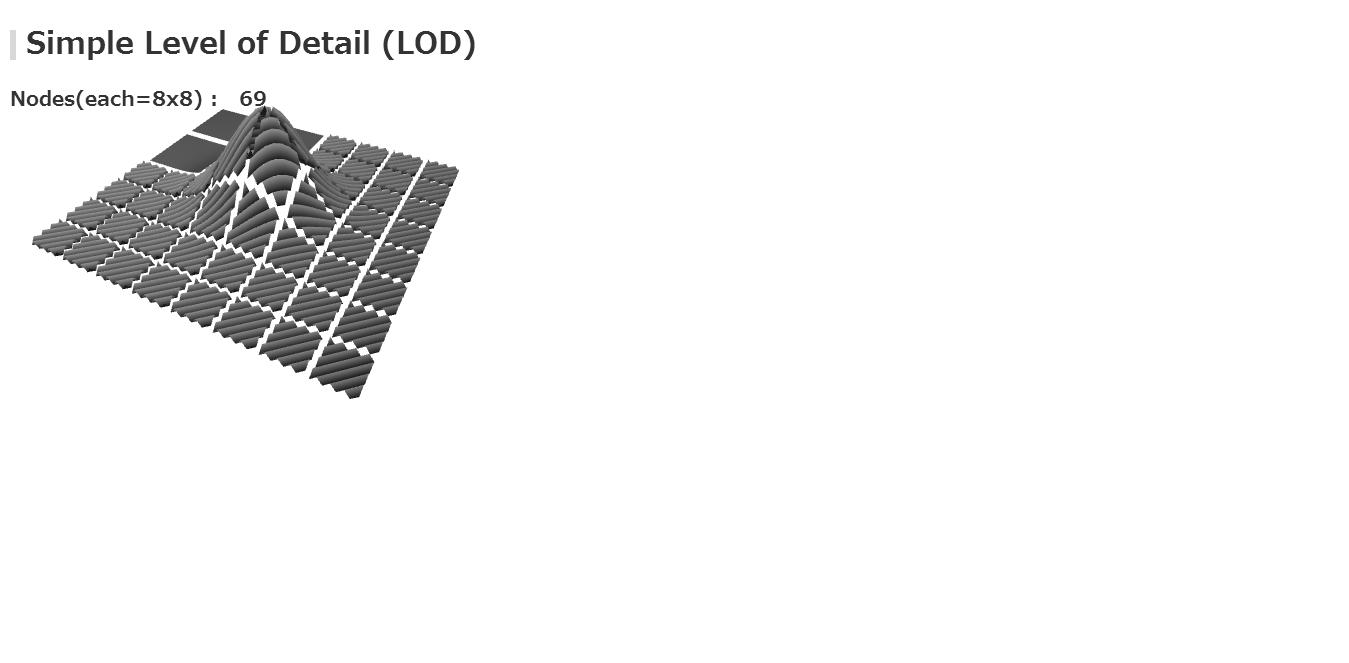
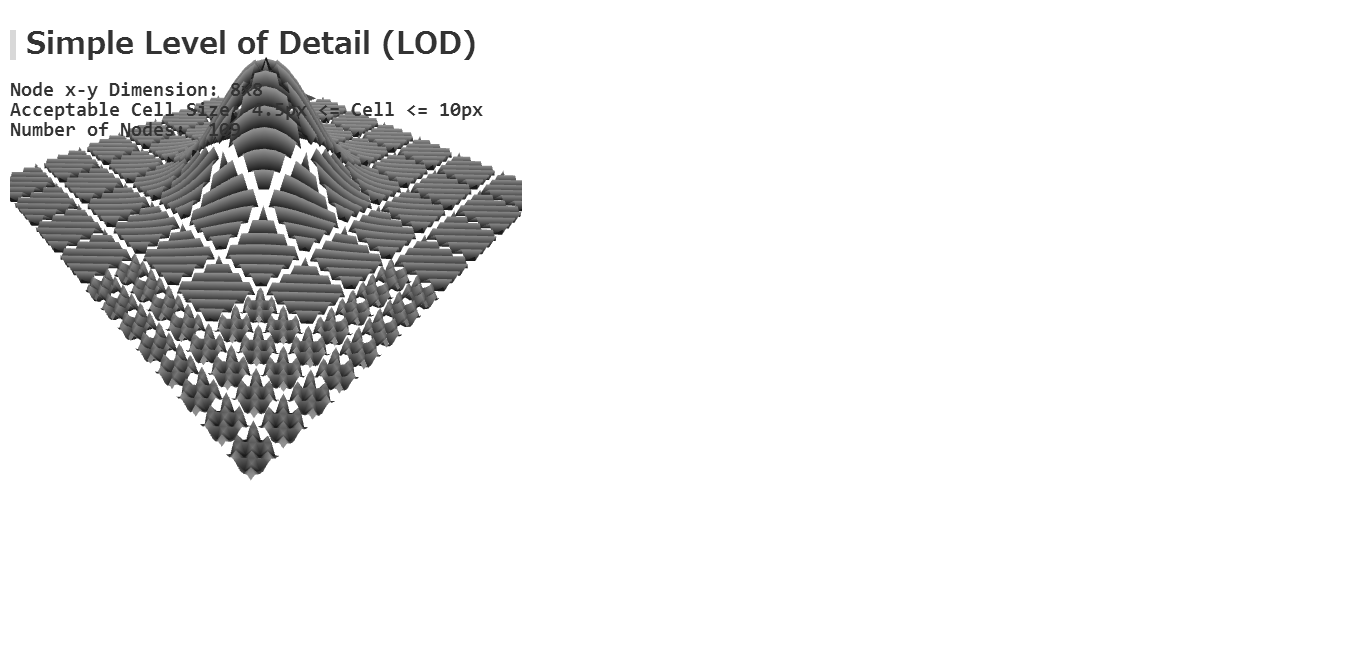
change to display more information of tree

Changed region(s): [[0.0, 0.0905, 0.4047, 0.724]]

diff --git a/js/main.js b/js/main.js
@@ -25,7 +25,6 @@ $(function() {
 
 	var angle = 0.0;
 	(function drawScene() {
-		var t0 = 
 		gl.viewport(0, 0, gl.viewportWidth, gl.viewportHeight);
 		gl.enable(gl.DEPTH_TEST);
 		gl.depthFunc(gl.LEQUAL);
@@ -54,17 +53,14 @@ $(function() {
 		lod.updateTree(tree, gl, prgObj, mvpMatrix);
 		gl.flush();
 		
-		var dim = new String(tree.root.dim.x + "x" + tree.root.dim.y);
-		var num = new String(tree.numNodes);
-		while ( num.length < 5 ) {num = " " + num;}
-		num = num.replace(/ /g, "&nbsp;");
-		$("#info").html(
-			"<p>Nodes(each=" + dim + ") :" + num + "</p>"
-		);
-		
+		printInfo(tree);
+
 		var timeoutId = setTimeout(drawScene, 1.0/30 * 1000);
 	} ());
 	
+	////////////////////
+	// local function //
+	////////////////////
 	function initLight(gl, prgObj, uniform) {
 		//var uniform = new UniformLocation();
 		uniform.setLocation("lightPosition", gl, prgObj);
@@ -106,6 +102,27 @@ $(function() {
 		attrib.linkBuffer("vertexPosition", gl, prgObj, 3, gl.FLOAT);
 		attrib.linkBuffer("vertexNormal"  , gl, prgObj, 3, gl.FLOAT);
 		attrib.bindBuffer("vertexIndex", gl);
+	}
+	function printInfo(tree) {
+		var nodeDim = new String(tree.root.dim.x + "x" + tree.root.dim.y);
+		var numNodes = num2str(tree.numNodes, 5);
+		var acceptableCellSizeMin = tree.acceptableCellSizeMin;
+		var acceptableCellSizeMax = tree.acceptableCellSizeMax;
+		$("#info").html(
+			"<p>Node x-y Dimension:&nbsp;" + nodeDim + "</p>" +
+			"<p>Acceptable Cell Size:&nbsp;" + acceptableCellSizeMin + "px <= Cell <= " + acceptableCellSizeMax + "px</p>" +
+			"<p>Number of Nodes:" + numNodes + "</p>"
+		);
+		
+
+		////////////////////
+		// local function //
+		////////////////////
+		function num2str(num, digit) {
+			var str = new String(num);
+			while ( str.length < digit ) {str = " " + str;}
+			return str.replace(/ /g, "&nbsp;");
+		}
 	}
 //}
 });

diff --git a/index.html b/index.html
@@ -193,8 +193,8 @@ void main(void) { // each fragment is processed by this function
 				</canvas>
 			</div>
 			<div id="textArea" style="position: absolute; top: 20px;">
-				<h1 style=>Simple Level of Detail (LOD)</h1>
-				<div id="info" style="margin-top: 30px; color: #333333; font-size: 20px; font-weight: bold;"></div>
+				<h1>Simple Level of Detail (LOD)</h1>
+				<div id="info"></div>
 			</div>
 		</div>
 </body>

diff --git a/css/main.css b/css/main.css
@@ -10,3 +10,11 @@ h1 {
 	border-left: 6px solid #D8D8D8;
 	padding-left: 10px;
 }
+
+#info {
+	font-family: Consolas, 'Courier New', Courier, Monaco, monospace;
+	margin-top: 20px; 
+	color: #333333; 
+	font-size: 20px; 
+	font-weight: bold;
+}
